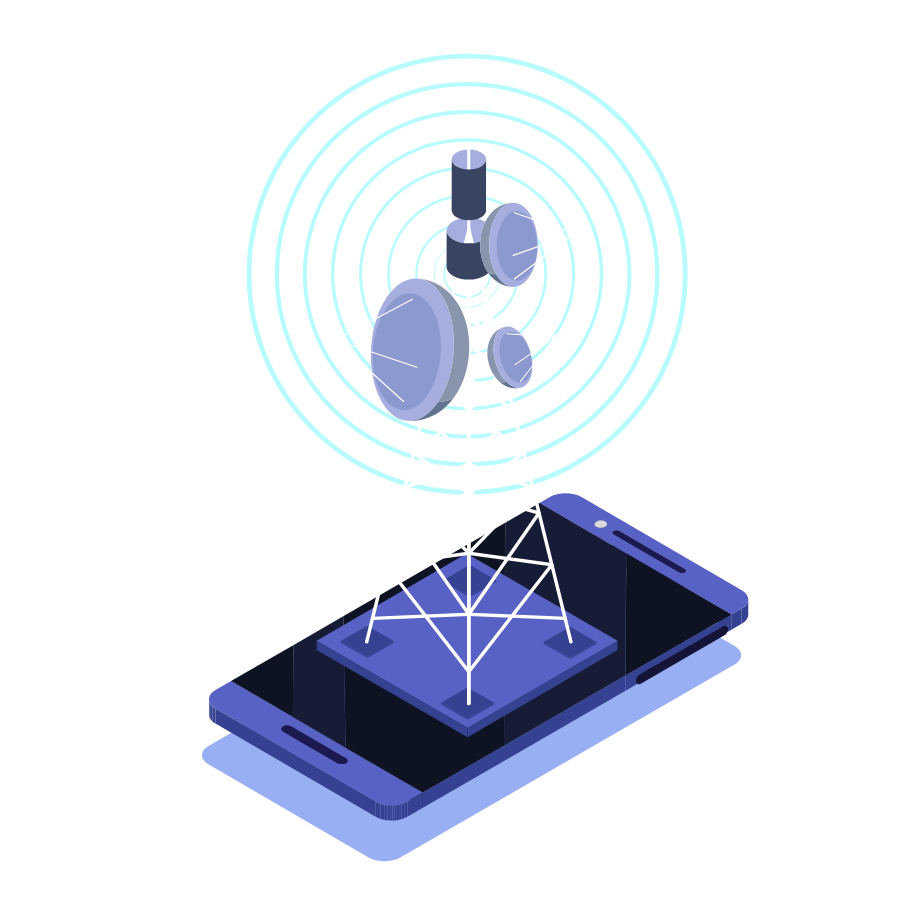
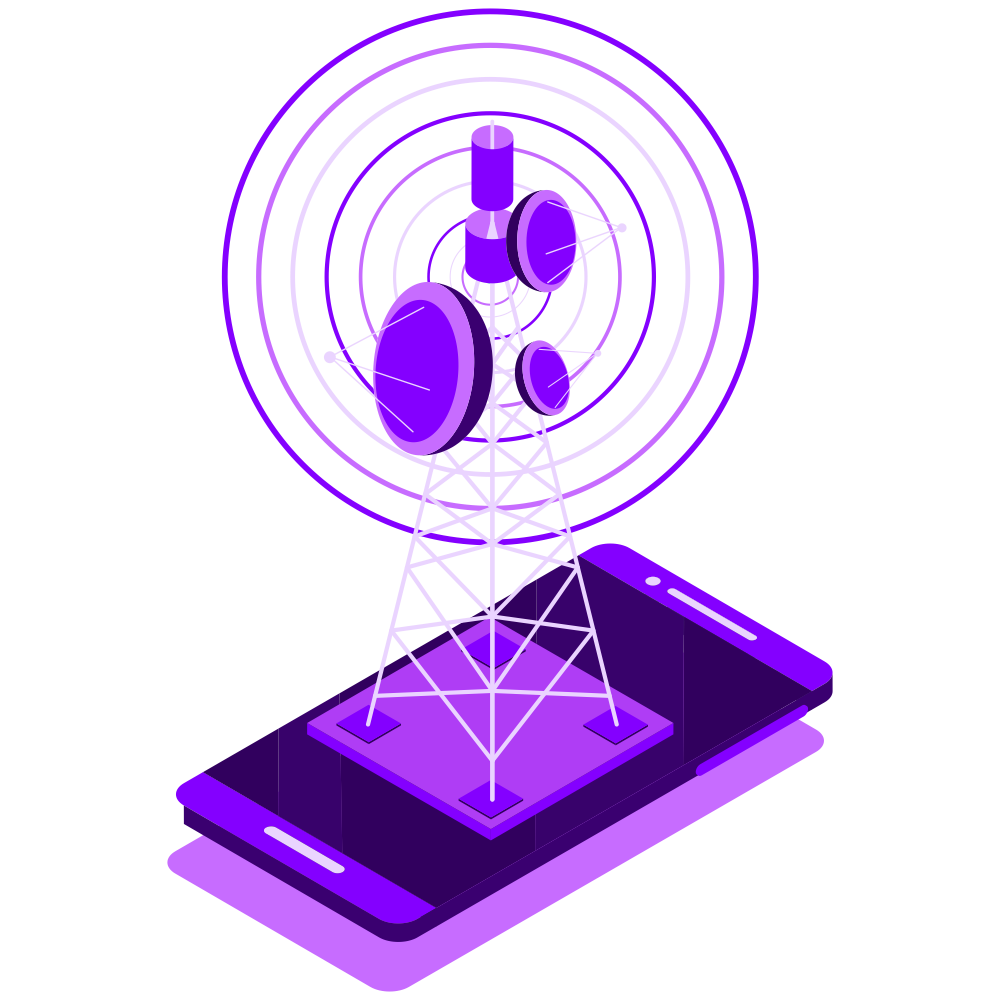
design changes

Changed region(s): [[0.1556, 0.0, 0.84, 0.9956]]

diff --git a/components/hero.tsx b/components/hero.tsx
@@ -2,12 +2,134 @@
 
 import { motion } from 'framer-motion'
 import { Button } from '@/components/ui/button'
-import { ArrowRight, Play } from 'lucide-react'
+import { ArrowRight, Play, Music2, Music, Youtube, Instagram, DollarSign, Copyright, Diamond } from 'lucide-react'
 import Link from 'next/link'
 import Image from 'next/image'
 
 import LogoLoop from './LogoLoop';
-import heroBanner from '@/public/assets/images/hero-banner-thumb.png';
+
+import YoutubeCircleIcon from "@/public/assets/images/youtube-circle-logo.png";
+import SpotifyCircleIcon from "@/public/assets/images/spotify-circle-logo.png";
+import InstagramCircleIcon from "@/public/assets/images/instagram-circle-logo.png";
+import AmazonMusicCircleIcon from "@/public/assets/images/amazon-music-circle-logo.png";
+import AppleMusicCircleIcon from "@/public/assets/images/apple-music-circle-icon.png";
+import TiktokCircleIcon from "@/public/assets/images/tiktok-circle-logo.png";
+import JioSaavnCircleIcon from "@/public/assets/images/jiosavan-circle-icon.png";
+import FacebookCircleIcon from "@/public/assets/images/facebook-circle-logo.png";
+import GannaCircleIcon from "@/public/assets/images/ganna-circle-logo.png";
+import SnapCircleIcon from "@/public/assets/images/snap-circle-logo.png";
+
+// --- Orbital Animation Components ---
+
+const Orbit = ({ radius, speed, delay = 0, children }: { radius: number, speed: number, delay?: number, children: React.ReactNode }) => (
+  <motion.div
+    className="absolute rounded-full border border-white/10"
+    style={{
+      width: radius * 2,
+      height: radius * 2,
+    }}
+    initial={{ scale: 0, opacity: 0 }}
+    animate={{ scale: 1, opacity: 1 }}
+    transition={{ 
+      duration: 2.5, 
+      delay, 
+      ease: [0.16, 1, 0.3, 1], 
+      rotate: { duration: speed, repeat: Infinity, ease: "linear" } 
+    }}
+  >
+    <motion.div
+      className="w-full h-full"
+      animate={{ rotate: 360 }}
+      transition={{ duration: speed, repeat: Infinity, ease: "linear" }}
+    >
+      {children}
+    </motion.div>
+  </motion.div>
+);
+
+const OrbitIcon = ({ angle, radius, color, icon: Icon, size = 48, orbitSpeed, delay = 0 }: { angle: number, radius: number, color: string, icon: any, size?: number, orbitSpeed: number, delay?: number }) => {
+  const x = radius * Math.cos((angle * Math.PI) / 180);
+  const y = radius * Math.sin((angle * Math.PI) / 180);
+
+  return (
+    <motion.div
+      className="absolute flex items-center justify-center rounded-full shadow-lg border border-white/20"
+      style={{
+        width: size,
+        height: size,
+        backgroundColor: color,
+        left: `calc(50% + ${x}px - ${size / 2}px)`,
+        top: `calc(50% + ${y}px - ${size / 2}px)`,
+      }}
+      initial={{ x: -x, y: -y, scale: 0, opacity: 0 }}
+      animate={{ x: 0, y: 0, scale: 1, opacity: 1 }}
+      transition={{ 
+        type: "spring",
+        stiffness: 40,
+        damping: 20,
+        mass: 1.2,
+        delay,
+        rotate: { duration: orbitSpeed, repeat: Infinity, ease: "linear" }
+      }}
+    >
+      <motion.div
+        className="w-full h-full flex items-center justify-center"
+        animate={{ rotate: -360 }} // Counter-rotate to stay upright
+        transition={{ duration: orbitSpeed, repeat: Infinity, ease: "linear" }}
+      >
+        {typeof Icon === 'string' || (typeof Icon === 'object' && Icon?.src) ? (
+          <Image
+            src={Icon}
+            alt=""
+            className="w-full h-full object-contain"
+          />
+        ) : (
+          <Icon className="text-white w-1/2 h-1/2" />
+        )}
+      </motion.div>
+    </motion.div>
+  );
+};
+
+const OrbitalAnimation = () => {
+  return (
+    <div className="relative w-full aspect-square flex items-center justify-center max-w-[500px] mx-auto scale-75 sm:scale-90 lg:scale-100">
+      {/* Central Logo */}
+      <motion.div
+        className="relative z-20 w-24 h-24 sm:w-32 sm:h-32 rounded-full bg-black flex items-center justify-center shadow-[0_0_50px_rgba(132,0,215,0.4)]"
+        animate={{ scale: [1, 1.05, 1] }}
+        transition={{ duration: 4, repeat: Infinity, ease: "easeInOut" }}
+      >
+        {/* <Music2 className="text-white w-1/2 h-1/2" /> */}
+        <img src="/logo.png" alt="" className='w-full h-full object-contain p-4' />
+        {/* Subtle glow rings */}
+        <div className="absolute inset-0 rounded-full border-2 border-white/20 animate-ping opacity-20" />
+      </motion.div>
+
+      {/* Orbit 1: Inner */}
+      <Orbit radius={80} speed={40} delay={0.6}>
+        <OrbitIcon angle={90} radius={80} color="#ffb700ff" icon={SnapCircleIcon} size={40} orbitSpeed={40} delay={0.9} />
+        <OrbitIcon angle={270} radius={80} color="#e03607ff" icon={GannaCircleIcon} size={40} orbitSpeed={40} delay={0.9} />
+      </Orbit>
+
+      {/* Orbit 2: Middle */}
+      <Orbit radius={140} speed={60} delay={1.2}>
+        <OrbitIcon angle={0} radius={140} color="#FC3C44" icon={AppleMusicCircleIcon} size={50} orbitSpeed={60} delay={1.5} />
+        <OrbitIcon angle={120} radius={140} color="#000000" icon={TiktokCircleIcon} size={50} orbitSpeed={60} delay={1.5} />
+        <OrbitIcon angle={240} radius={140} color="#10B981" icon={JioSaavnCircleIcon} size={50} orbitSpeed={60} delay={1.5} />
+      </Orbit>
+
+      {/* Orbit 3: Outer */}
+      <Orbit radius={210} speed={90} delay={1.8}>
+        <OrbitIcon angle={0} radius={210} color="#FF0000" icon={YoutubeCircleIcon} size={65} orbitSpeed={90} delay={2.1} />
+        <OrbitIcon angle={72} radius={210} color="#E4405F" icon={InstagramCircleIcon} size={65} orbitSpeed={90} delay={2.1} />
+        <OrbitIcon angle={144} radius={210} color="#1DB954" icon={SpotifyCircleIcon} size={65} orbitSpeed={90} delay={2.1} />
+        <OrbitIcon angle={216} radius={210} color="#00A8E1" icon={FacebookCircleIcon} size={65} orbitSpeed={90} delay={2.1} />
+        <OrbitIcon angle={288} radius={210} color="#000" icon={AmazonMusicCircleIcon} size={65} orbitSpeed={90} delay={2.1} />
+      </Orbit>
+    </div>
+  );
+};
 
 export default function Hero() {
   const imageLogos = [
@@ -74,30 +196,13 @@ export default function Hero() {
             </motion.div>
           </motion.div>
 
-          {/* Right Side: Image */}
           <motion.div
             className="relative flex justify-center items-center w-full mt-12 lg:mt-0"
-            initial={{ opacity: 0, scale: 0.9, x: 20 }}
-            animate={{ opacity: 1, scale: 1, x: 0 }}
-            transition={{ duration: 0.7, delay: 0.3 }}
+            initial={{ opacity: 0, scale: 0.8 }}
+            animate={{ opacity: 1, scale: 1 }}
+            transition={{ duration: 0.8, delay: 0.3 }}
           >
-            <div className="relative w-full max-w-[500px] aspect-square flex items-center justify-center">
-              {/* Optional Subtle Glow Behind Image */}
-              {/* <div className="absolute inset-0 bg-primary/20 blur-[100px] rounded-full pointer-events-none" /> */}
-              <motion.div
-                className="relative w-full h-full"
-              // animate={{ y: [0, -15, 0] }}
-              // transition={{ duration: 6, repeat: Infinity, ease: "easeInOut" }}
-              >
-                <Image
-                  src={heroBanner}
-                  alt="Distribute Your Music Globally"
-                  fill
-                  priority
-                  className="object-contain relative z-10 drop-shadow-2xl"
-                />
-              </motion.div>
-            </div>
+            <OrbitalAnimation />
           </motion.div>
         </div>
       </div>

diff --git a/components/royalty-splits/MoneySplitAnimation.tsx b/components/royalty-splits/MoneySplitAnimation.tsx
@@ -108,7 +108,7 @@ export default function MoneySplitAnimation() {
               <p className="text-[10px] font-bold text-muted-foreground uppercase tracking-widest mb-1.5 opacity-60">Global Revenue</p>
               <h4 className="text-lg font-bold text-white flex items-center gap-2">
                 <IndianRupee className="w-4 h-4 text-emerald-400" />
-                100
+                100%
               </h4>
             </div>
             <div className="flex gap-1.5">
@@ -183,7 +183,7 @@ export default function MoneySplitAnimation() {
                 </div>
                 <h5 className="text-sm font-bold text-white flex items-center gap-1.5">
                   <IndianRupee className="w-3 h-3 text-emerald-400" />
-                  50
+                  50%
                 </h5>
                 <p className="text-[9px] text-emerald-400 mt-1 flex items-center gap-1">
                   <ShieldCheck className="w-2.5 h-2.5" /> Secured Payout
@@ -208,7 +208,7 @@ export default function MoneySplitAnimation() {
                 </div>
                 <h5 className="text-sm font-bold text-white flex items-center gap-1.5">
                   <IndianRupee className="w-3 h-3 text-violet-400" />
-                  50
+                  50%
                 </h5>
                 <p className="text-[9px] text-violet-400 mt-1 flex items-center gap-1">
                   <TrendingUp className="w-2.5 h-2.5" /> High Performance

diff --git a/components/royalty-splits/RoyaltySplitsTransparency.tsx b/components/royalty-splits/RoyaltySplitsTransparency.tsx
@@ -58,7 +58,7 @@ export default function RoyaltySplitsTransparency() {
       </section>
 
       {/* ── Future of Collaboration ── */}
-      <section className="py-24 bg-muted/10 relative overflow-hidden">
+      <section className="py-24 bg-muted/10 relative overflow-hidden music_colobration_sec">
         <div className="relative max-w-7xl mx-auto px-8">
           <div className="grid lg:grid-cols-2 gap-16 items-center">
 
@@ -85,10 +85,10 @@ export default function RoyaltySplitsTransparency() {
             </div>
 
             {/* Right: Image placeholder */}
-            <div className="rounded-3xl border border-border/40 bg-muted/20 overflow-hidden shadow-2xl h-[400px] relative group flex items-center justify-center">
+            {/* <div className="rounded-3xl border border-border/40 bg-muted/20 overflow-hidden shadow-2xl h-[400px] relative group flex items-center justify-center">
               <div className="opacity-40 w-full h-full absolute inset-0 bg-[url('https://images.unsplash.com/photo-1598488035139-bdbb2231ce04?q=80&w=1000&auto=format&fit=crop')] bg-cover bg-center transition-transform duration-700 group-hover:scale-105" />
               <div className="absolute inset-0 bg-gradient-to-t from-background/80 via-transparent to-transparent pointer-events-none" />
-            </div>
+            </div> */}
 
           </div>
         </div>

diff --git a/app/globals.css b/app/globals.css
@@ -340,3 +340,21 @@ body {
     top: 30%;
     transform: translate(-50%, -50%) !important;
 }
+
+
+.music_colobration_sec {
+  background: url('/assets/images/music_colobration_bg.jpg');
+  background-size: cover;
+  background-position: center;
+  background-repeat: no-repeat;
+  background-attachment: fixed;
+}
+.music_colobration_sec::before {
+  content: '';
+  position: absolute;
+  top: 0;
+  left: 0;
+  width: 100%;
+  height: 100%;
+ background: linear-gradient(90deg, rgba(0, 0, 0, 0.95) 0%, rgba(0, 0, 0, 0.95) 49%, rgba(0, 0, 0, 0.62) 100%);
+}
